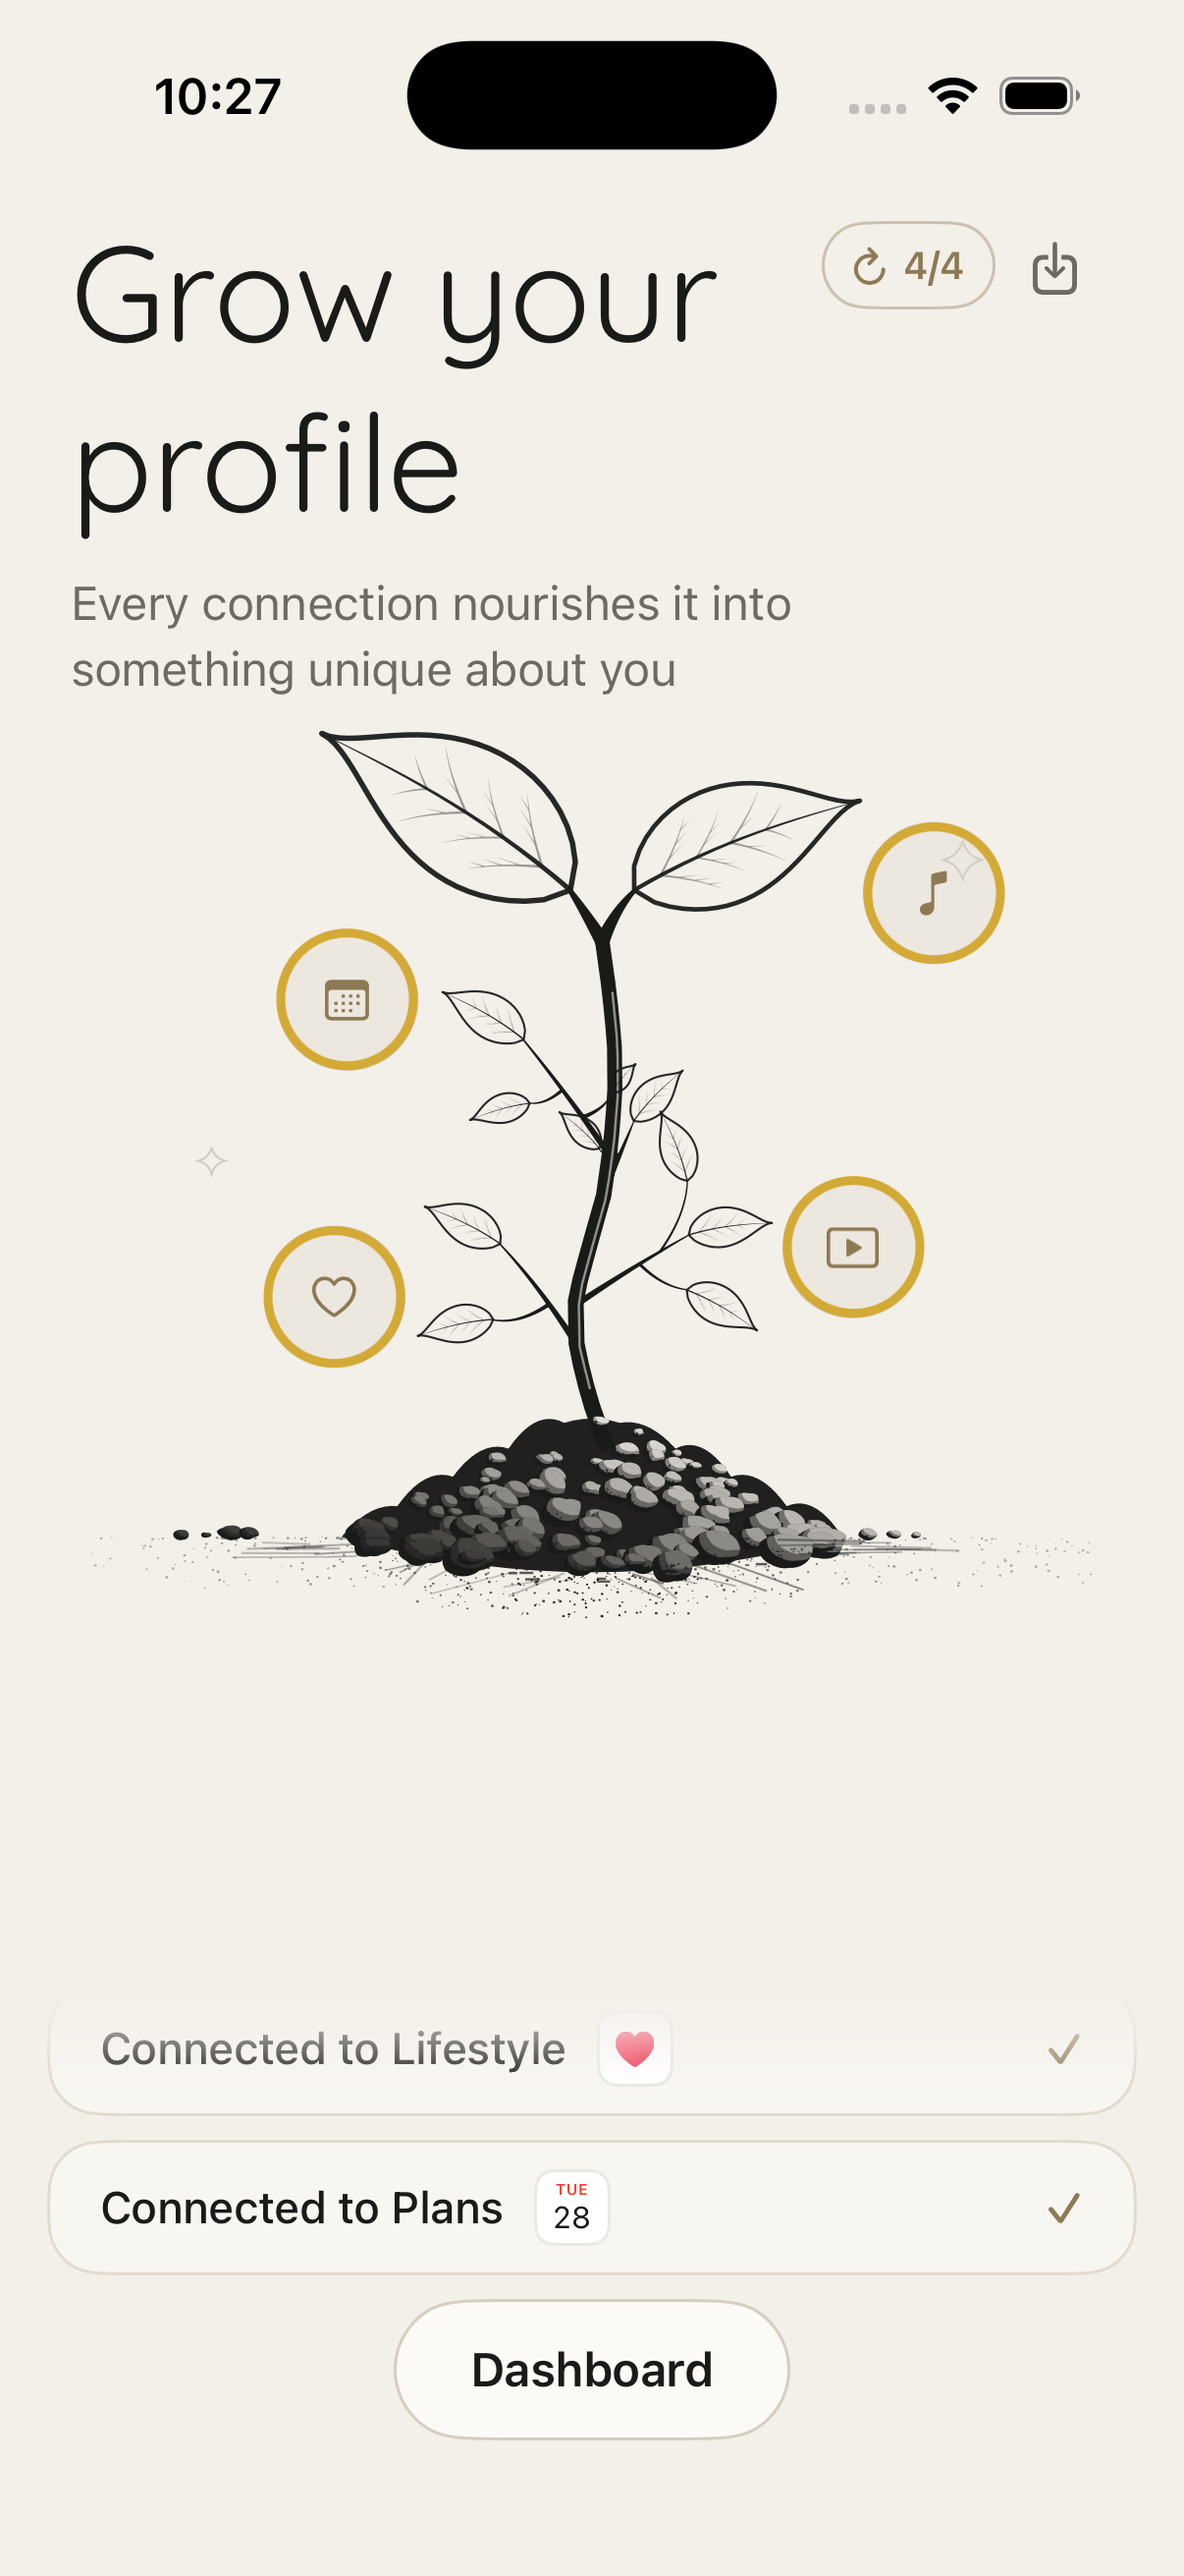
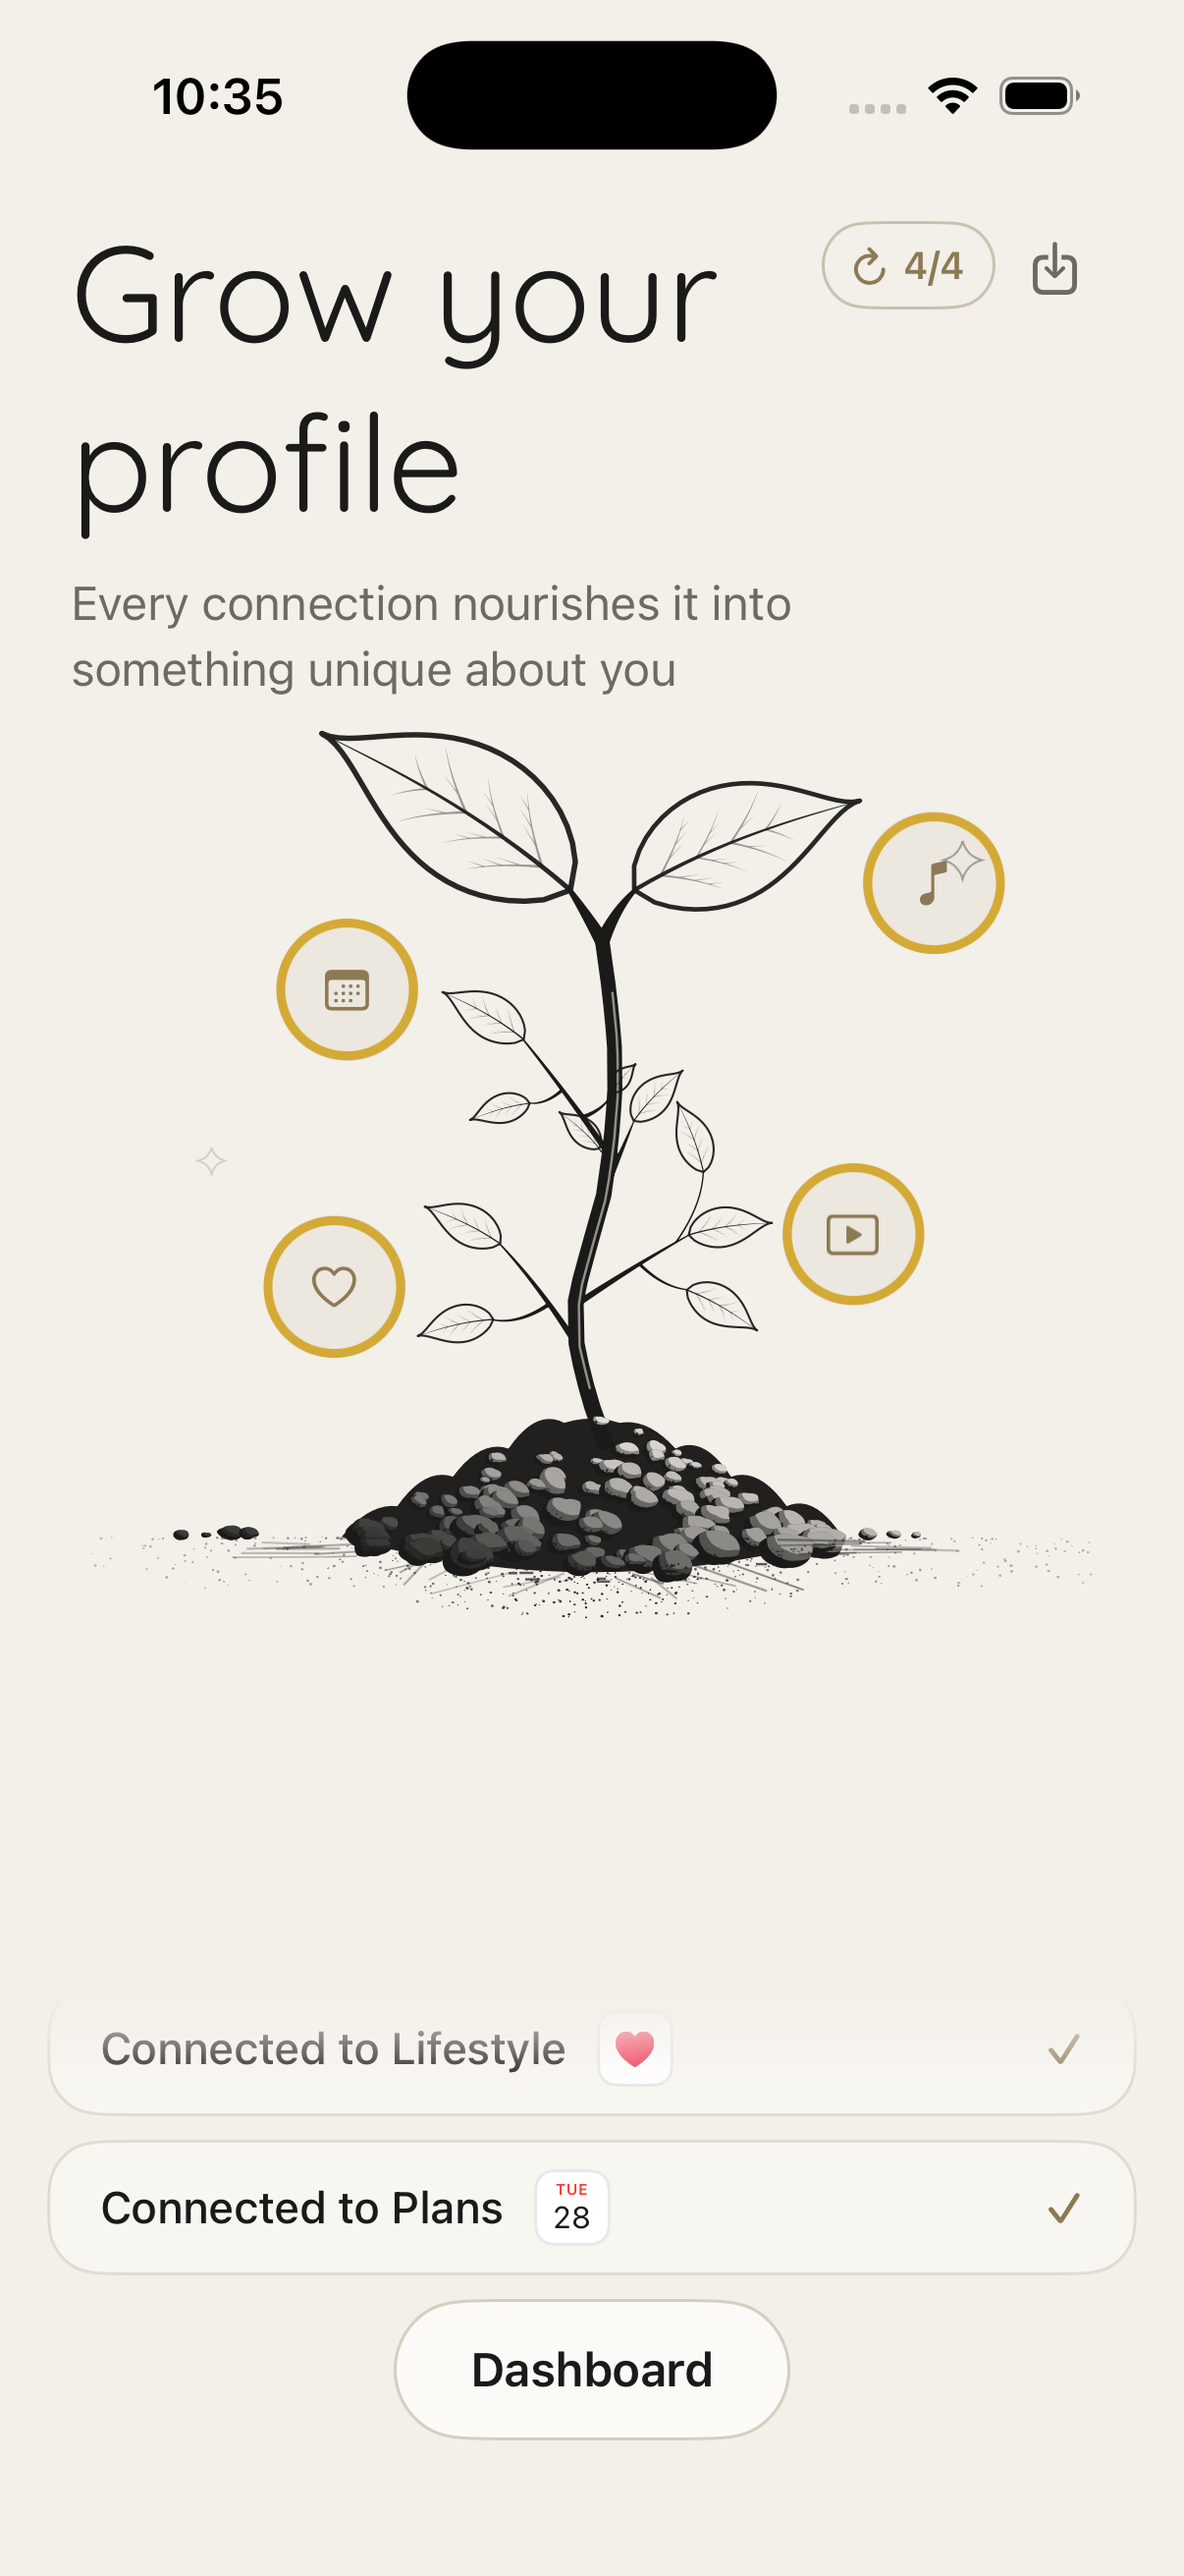
Open R1's branch spacing further
The gap between the first and second branch, four fifths wider again:
0.186 of the rachis to 0.335, putting the second at 0.544 + 0.335 = 0.879.

Read as compounding rather than replacing — the second figure was asked
for because the first had not gone far enough, so it is applied to where
the gap now stands rather than to where it started. Taken the other way it
would have moved the branch by a twelfth, which would not have looked like
an answer to "not enough".

That leaves 0.121 of the rachis to the terminal leaf at the tip, less than
the gap below it, so the upper pair now sits closer together than the
lower. Visible in the overlay and left as it is, since spacing the upper
pair was not what was asked.

Stages 1, 2 and 3 differ by 0, 0 and 1 pixels.

diff --git a/Written/Views/Tree/SeedlingArt.swift b/Written/Views/Tree/SeedlingArt.swift
@@ -626,12 +626,19 @@ enum SeedlingArt {
             reach: CGSize(width: 0.080, height: 0.088),
             turn: 18,
             leaflets: [
-                // The second branch, moved out so the gap to the first grows by
-                // three fifths: they sat 0.116 of the rachis apart, now 0.186,
-                // which puts this at 0.544 + 0.186. Held as a gap rather than a
-                // position, since the first branch is where it should be and
-                // this one is being measured from it.
-                Leaflet(mirrored: false, axis: -25, scale: 0.23, along: 0.730,
+                // The second branch, measured as a gap from the first rather
+                // than as a position — the first is where it should be, and
+                // this is placed relative to it.
+                //
+                // The gap has been opened twice: 0.116 of the rachis, then three
+                // fifths more to 0.186, then four fifths more again to 0.335.
+                // 0.544 + 0.335. Compounding, not replacing — the second figure
+                // was asked for because the first had not gone far enough.
+                //
+                // That leaves 0.121 to the terminal leaf at the tip, less than
+                // the gap below it, so the upper pair now sits closer together
+                // than the lower.
+                Leaflet(mirrored: false, axis: -25, scale: 0.23, along: 0.879,
                         stalkRun: CGSize(width: 0.004, height: -0.074)),
                 Leaflet(mirrored: true, axis: 50, scale: 0.26, along: 1, stalkRun: .zero),
                 // The first branch off the rachis, moved out from the stem by
